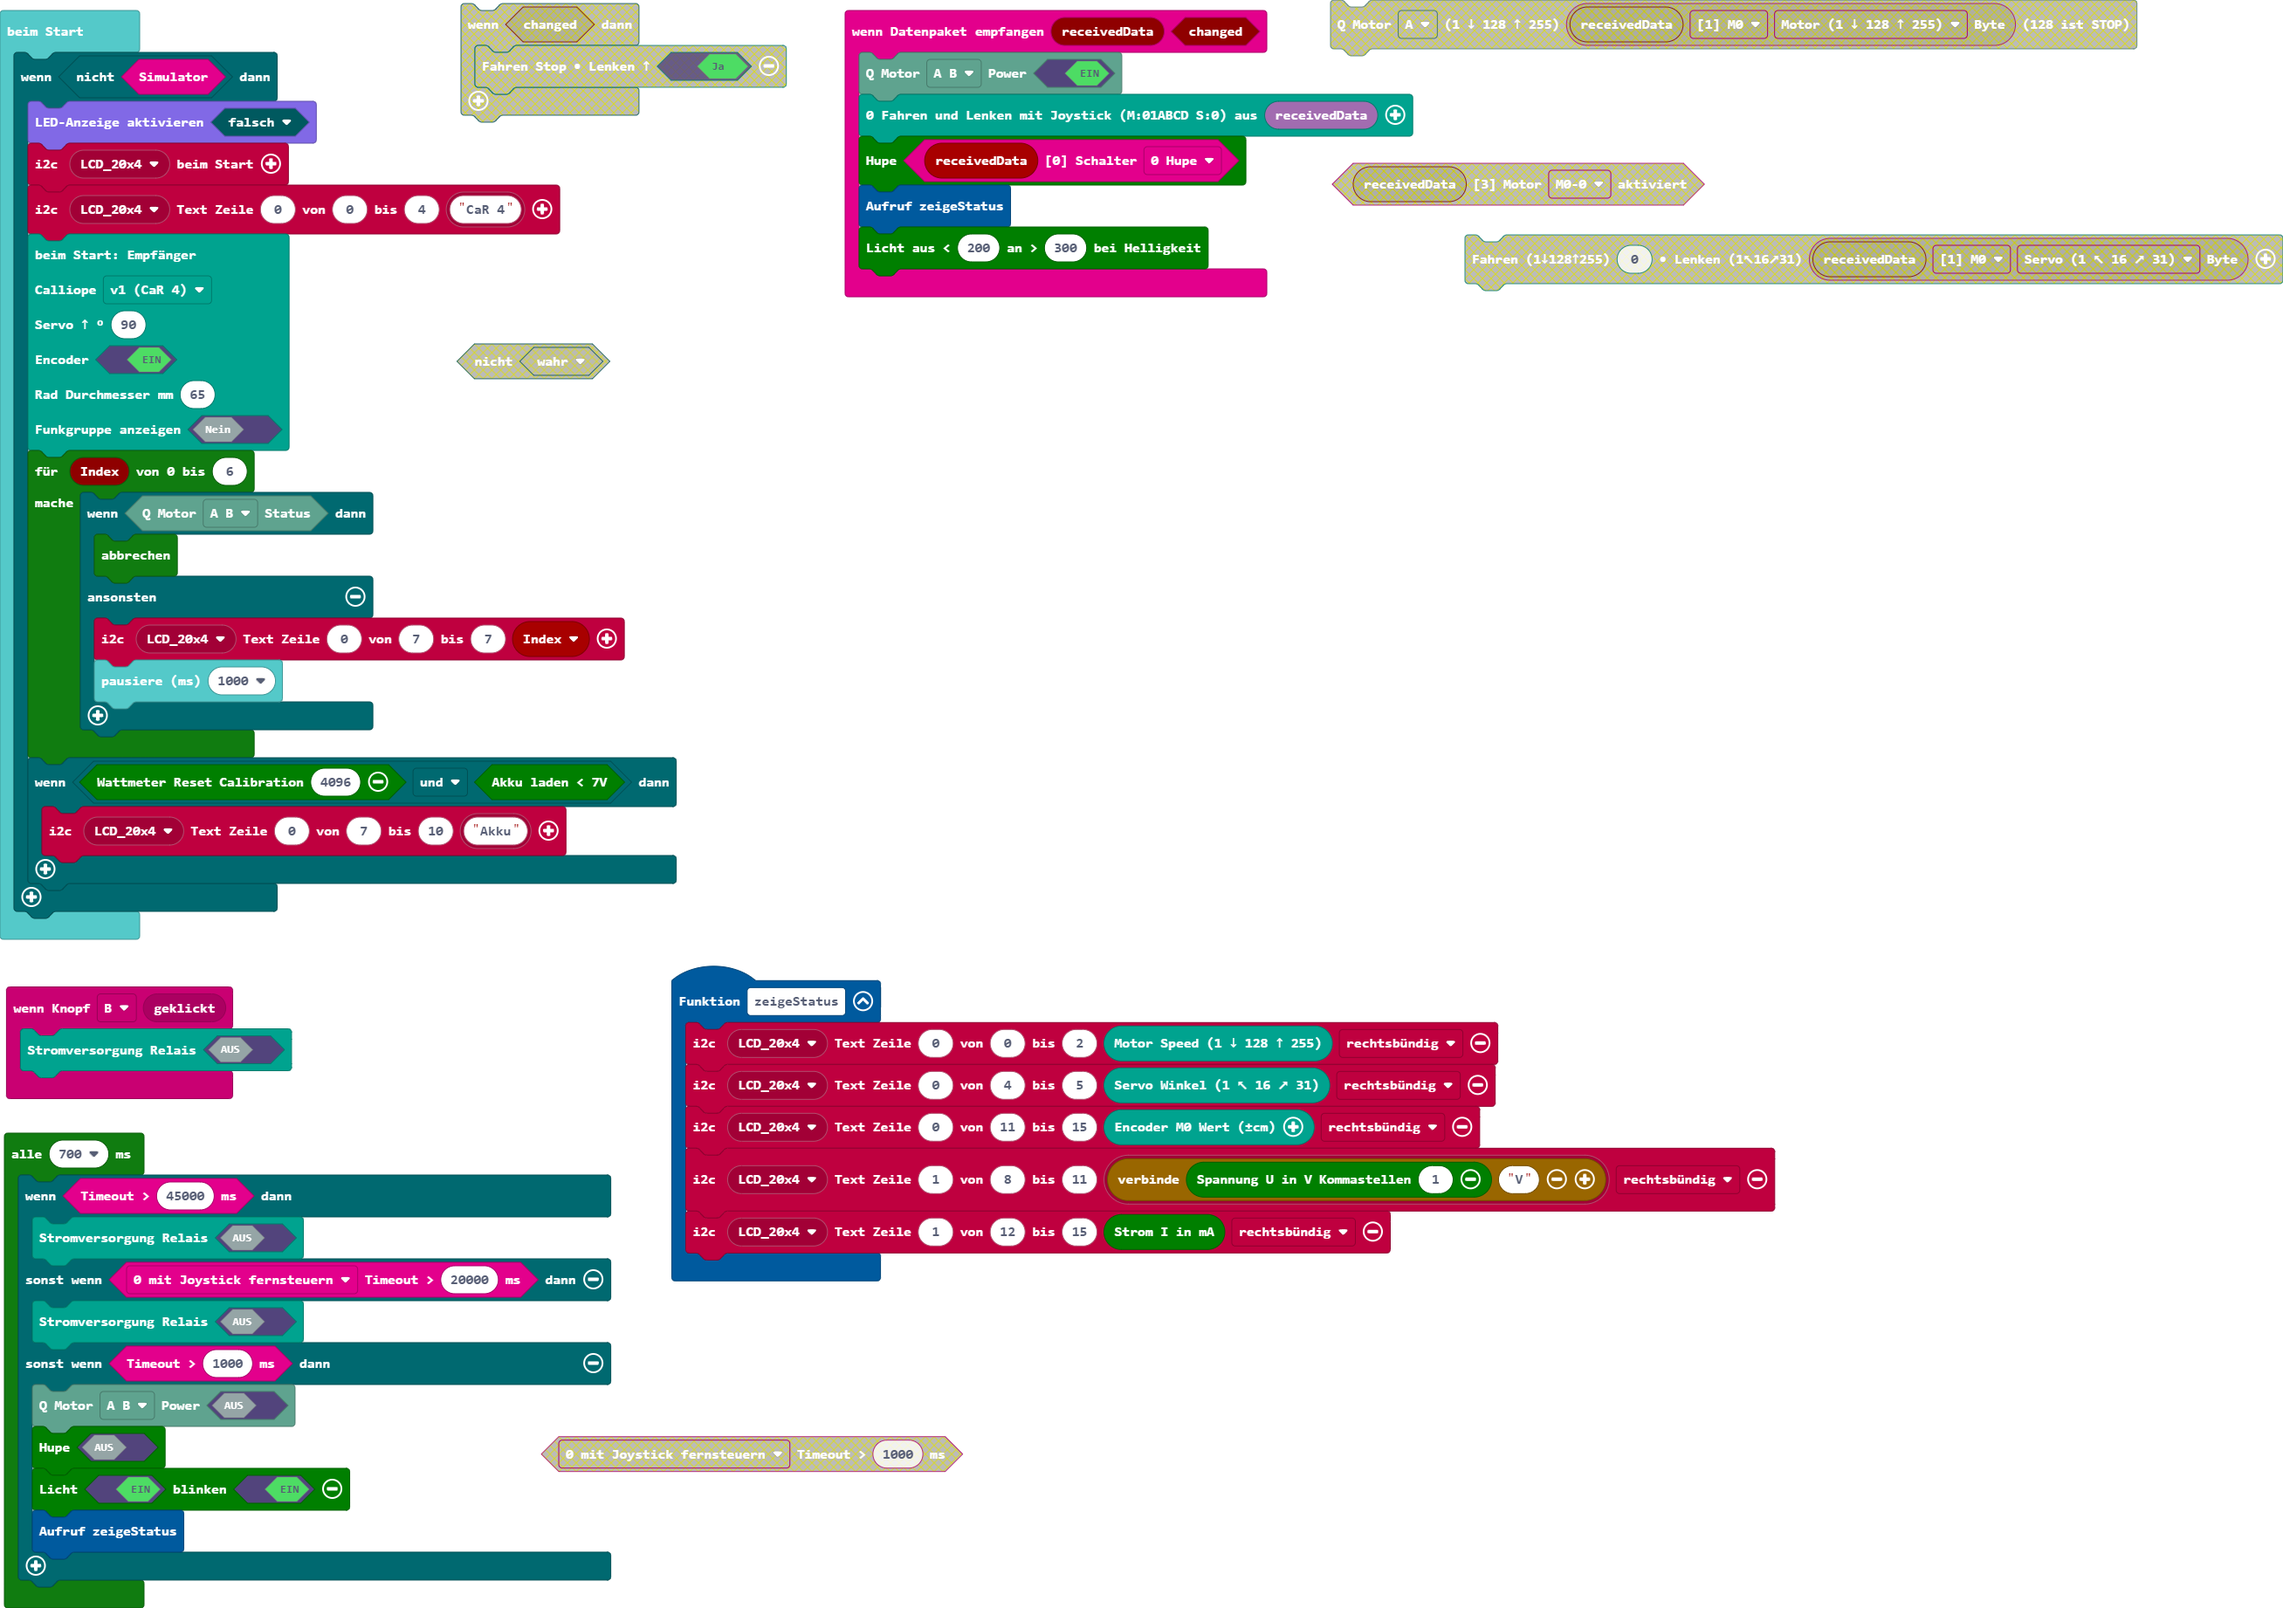
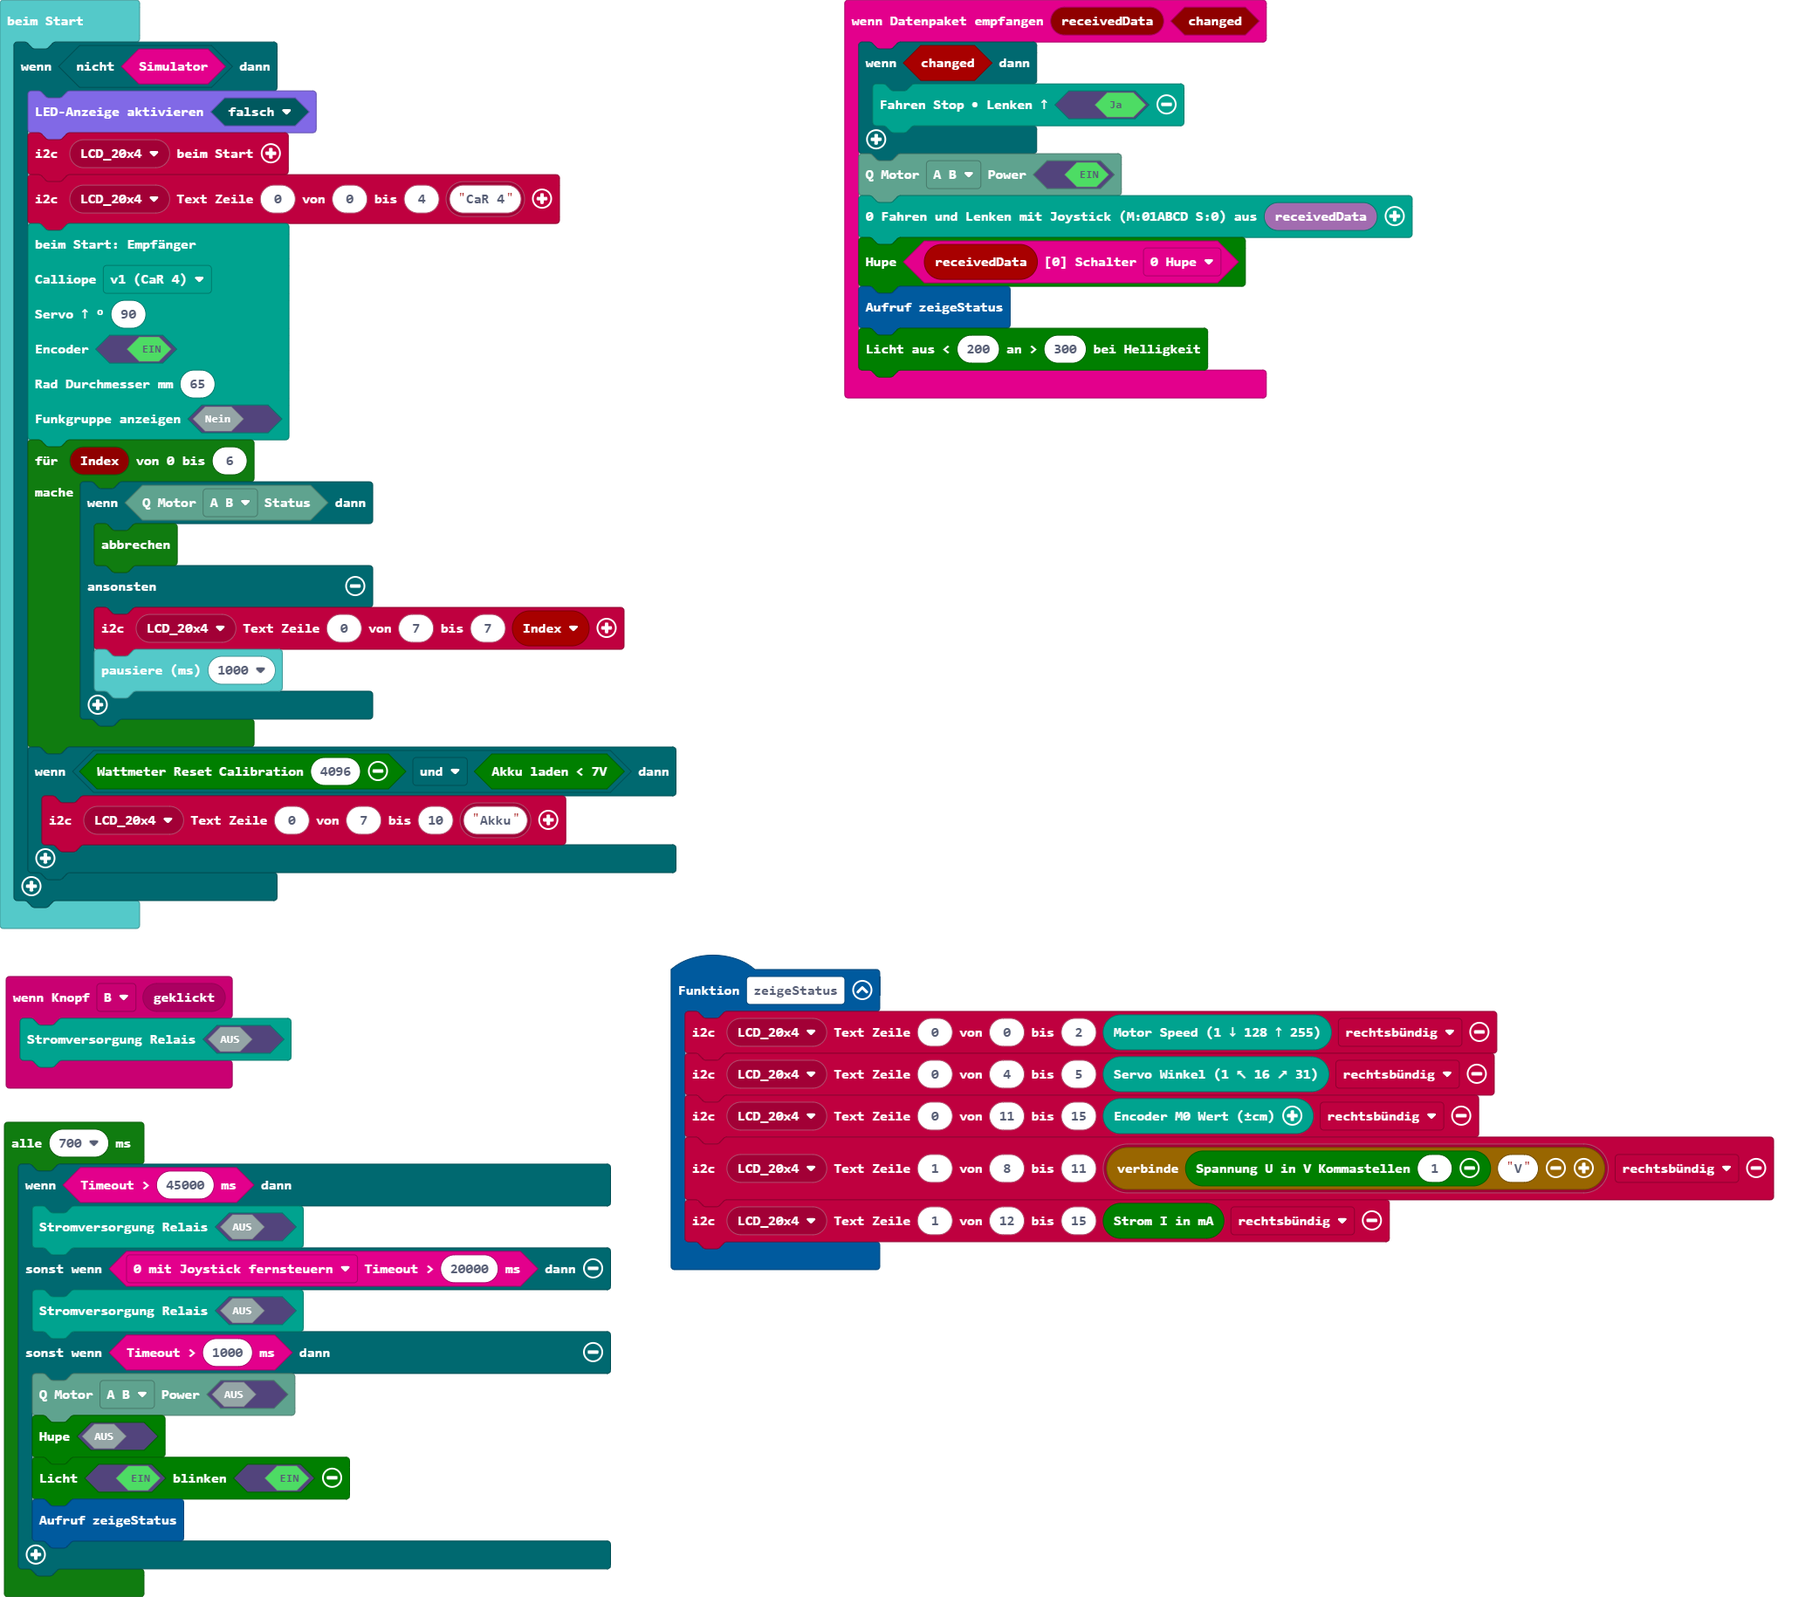
Aktualisiere main.blocks, main.ts

Changed region(s): [[0.0, 0.0, 1.0, 1.0], [0.2495, 0.9656, 0.3431, 0.9967]]

diff --git a/main.ts b/main.ts
@@ -9,6 +9,9 @@ input.onButtonEvent(Button.B, input.buttonEventClick(), function () {
     receiver.pinRelay(false)
 })
 btf.onReceivedDataChanged(function (receivedData, changed) {
+    if (changed) {
+        receiver.selectMotorStop(true)
+    }
     receiver.qwiicMotorChipPower(receiver.eQwiicMotorChip.ab, true)
     receiver.fahreJoystick(btf.btf_receivedBuffer19())
     car.buzzer(btf.getSchalter(receivedData, btf.e0Schalter.b0))
